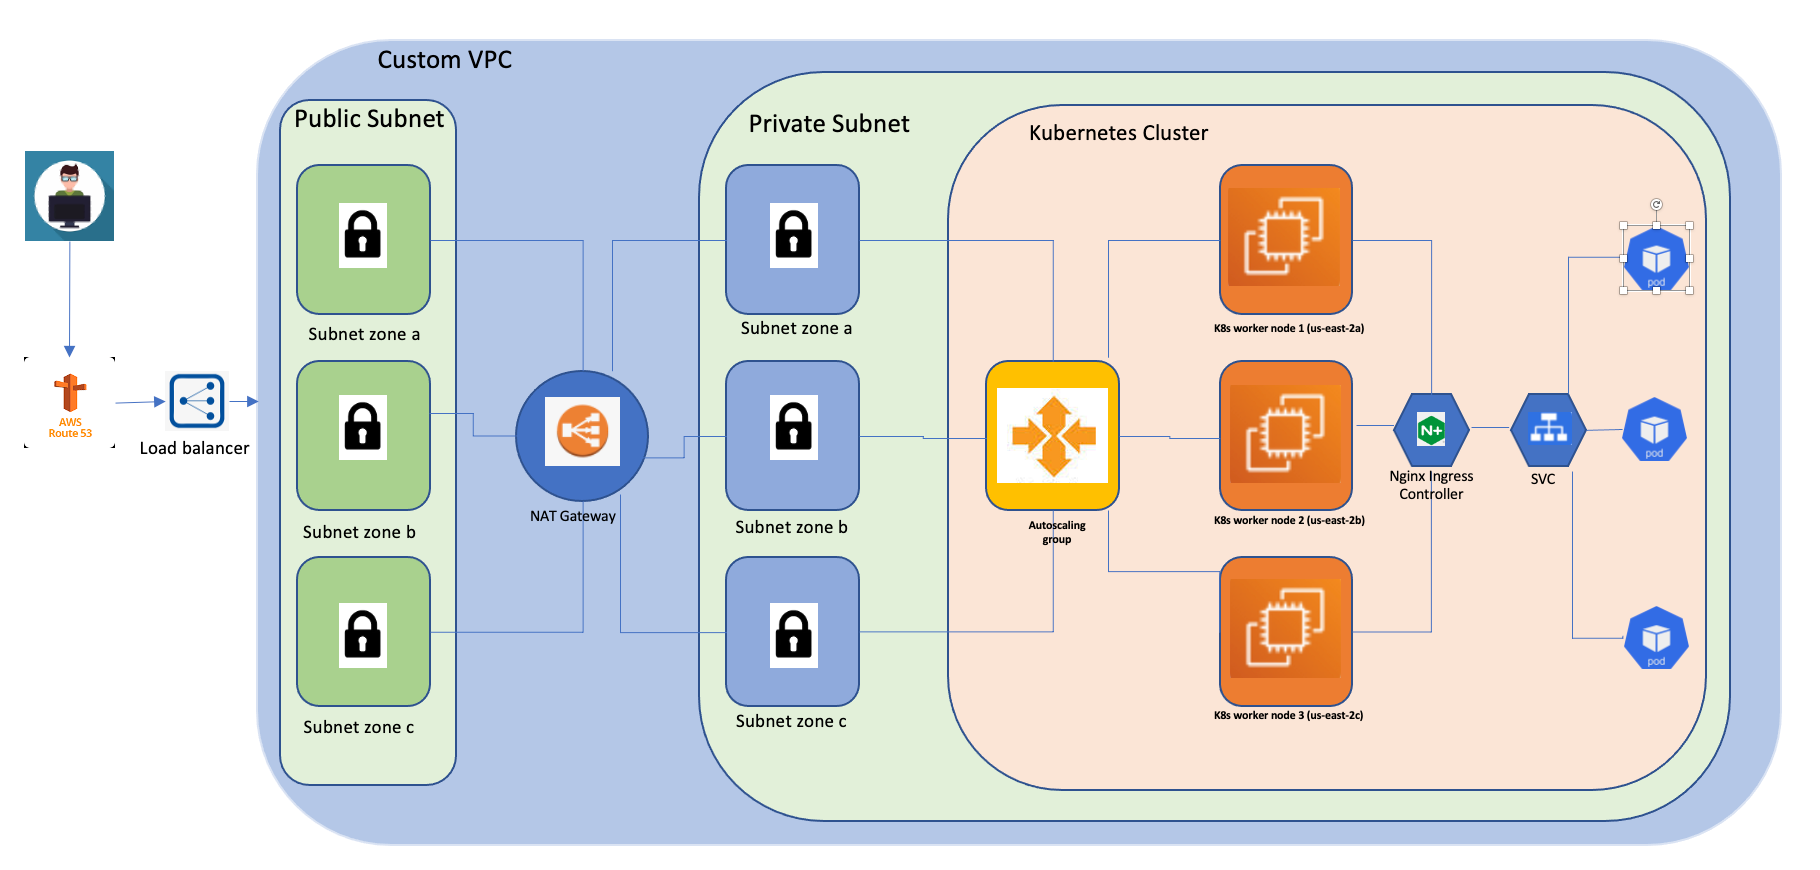
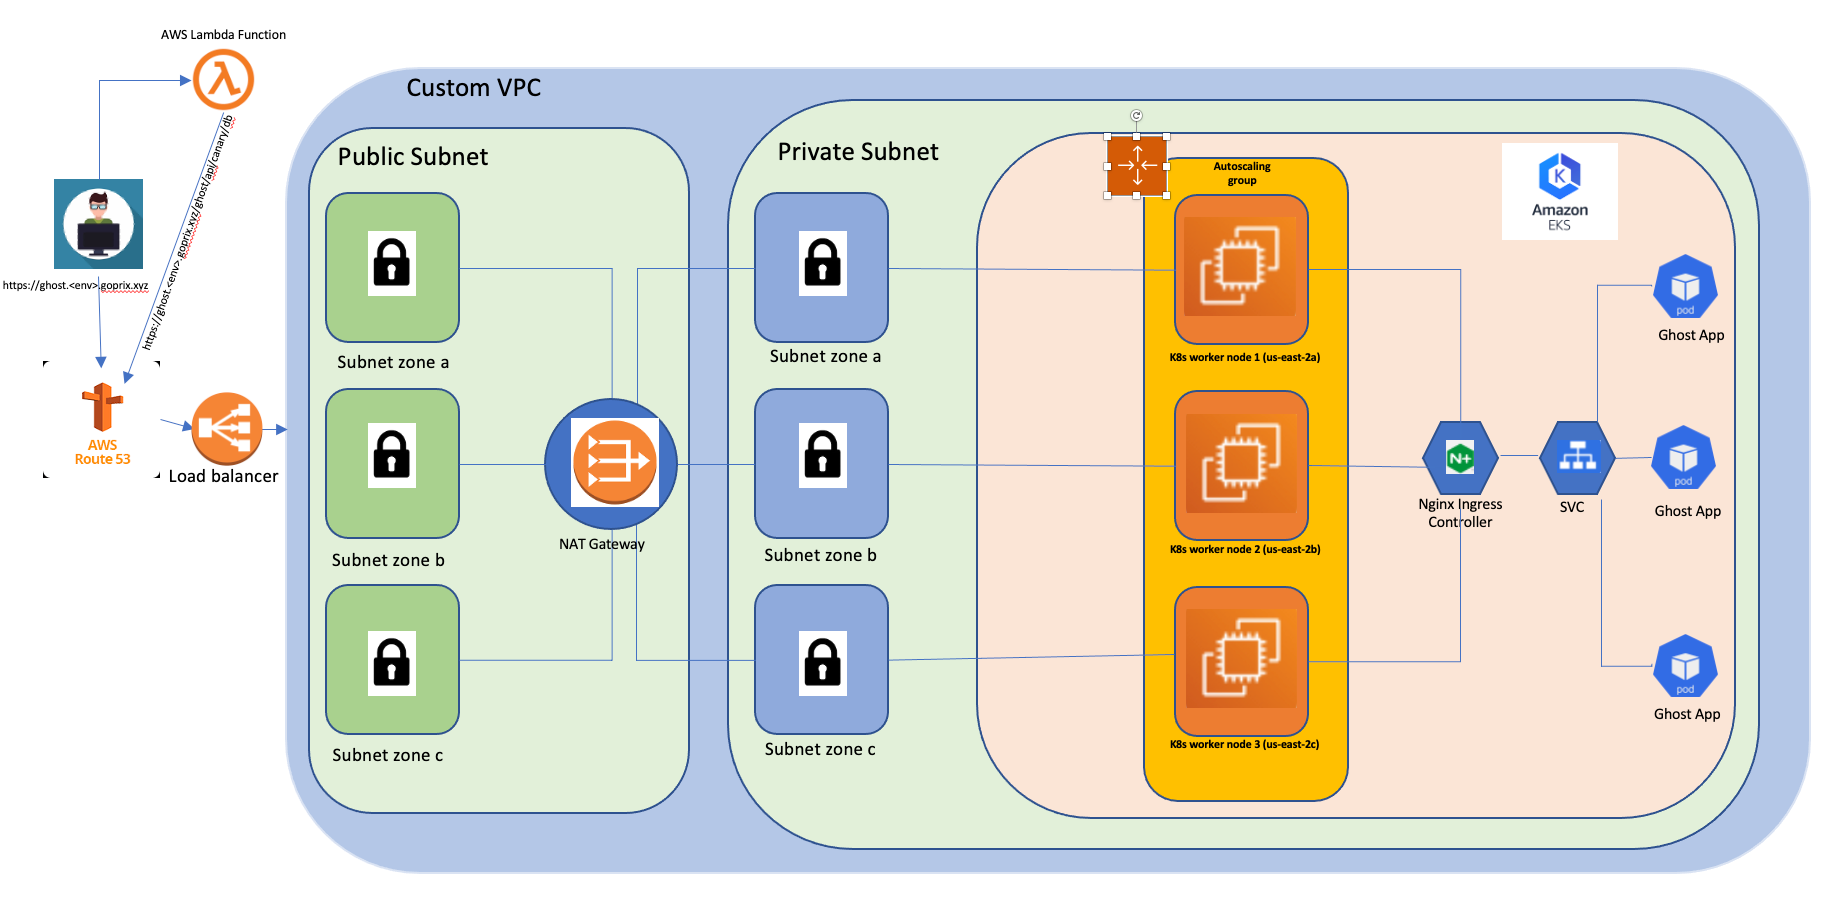
Update readme file

diff --git a/README.md b/README.md
@@ -1,22 +1,27 @@
 # Ghost-helm
 
-This is a proof of concept for the customer Drone Shuttles Ltd to launch their website using Ghost
-The repo will help you to deploy a website using Ghost into an AWS Managed Kubernetes cluster(EKS). 
+This is a proof of concept for the customer Drone Shuttles Ltd to launch their website using Ghost. 
+The repo will help you to deploy a website using Ghost into an AWS Managed Kubernetes cluster(EKS).
+In this repo we have:
+- gitlab-ci.yaml to deploy ghost application 
+- nginx ingress to expose ghost outside eks cluster
+- horizontal pod autoscaler kubernetes manifest file to scale ghost based on different traffic spikes
+
 There are other repos which will help in automating the deployment of the whole infrastructure used for the website
 - [eks-tf](https://gitlab.com/nord-cloud-ghost/eks-tf) - Terraform(IaC) code base to deploy EKS cluster 
 - [eks-addons](https://gitlab.com/nord-cloud-ghost/eks-addons) - Helm chart code base to deploy addons on EKS cluster for monitoring and visualising Ghost app and its environments
-- [ghost-infra](https://gitlab.com/nord-cloud-ghost/ghost-infra) - Terraform code base to deploy infra related to Ghost application
+- [ghost-infra](https://gitlab.com/nord-cloud-ghost/ghost-infra) - Terraform code base to deploy serverless function related to Ghost application
 
 ##Assumptions:
 
-- Customer is in AWS region: us-east-1
-- User/Dev has an AWS account
+- Customer is in AWS region: ```us-east-1```
+- User/Dev has an AWS account with programmatic access
 - User/Dev has prior knowledge of:
    - Terraform
    - AWS CLI
    - Using EKS cluster
 
-##Prerequisites:
+## Prerequisites:
 To Setup the entire project following tools are needed:
 
 - Terraform - v0.14.8
@@ -24,40 +29,53 @@ To Setup the entire project following tools are needed:
 - AWS CLI Configured with right credentials
 - S3 bucket to store terraform state file
 - A DynamoDB table to store the lock information for terraform  
+- Route53 Hosted zones   
 
-## Infrastructure
+## Architecture Overview
+
+Shows overview of ghost deployment in EKS cluster
 
 ![Architecture](images/architecture.png)
 
-To support development efforts three different environments (Dev, Staging, Prod) will be created in AWS and each environment mainly consists of the following:
+## Infrastructure
+
+To support development efforts three different environments (Dev, Staging, Prod) will be created in AWS and each environment mainly consists of the following stack:
 
 - VPC (with private and public subnet) - Networking
-- EKS cluster - Compute
+- EKS cluster - For hosting ghost application and its support services
 - Route53 records - DNS service
-- Lambda function - To support customer with serverless function to delete all posts
+- Lambda function - To support customer with serverless function to delete all posts in ghost
 - Gitlab - For storing code and CI/CD
 - S3 buckets - For storing terraform state files and creating backups for eks cluster
 - IAM - For user and access management
 - DynamoDB - For storing terraform state Lock information
-- Prometheus
-- Grafana
-- Loki
-- cloud trail
-- Velero
-- Atlantis
+- Prometheus - For scraping metrics
+- Grafana - For visualizing and monitoring
+- Loki - For log aggregation
+- Cloud trail - For audit logs
+- Velero - For Disaster recovery
+- Atlantis - For automating terraform workflow through gitlab 
+- Cert-manager - For Issuing certificated 
+- Nginx Ingress Controller - For routing traffic outside or within the cluster 
+- Autoscaling group - For deploying autoscaling for eks worker nodes in case of high traffic spikes 
 
 All the environments will be managed by three different accounts within AWS for separation of concerns.
 
-All EKS clusters will be integrated in the gitlab repos, so it can be used with CI/CD. Below are the cluster names for each environment:
+All EKS clusters will be integrated in the gitlab repos, so it can be used with CI/CD. Below are the cluster names that needs to be assigned for each environment:
 
 3. Dev     - ```dev-eks```
 1. Staging - ```staging-eks```
 2. Prod    - ```prod-eks```
 
 ## Deployment
+
+Shows overview of Deployment
+
+![Workloads](images/Deployment.png)
+
 ### Deploying Infrastructure
 
-1. Configure AWS cli with a IAM user which programmatic and admin access
+1. Configure AWS cli with a IAM user which has programmatic and admin access
 
 2. Website will be hosted in an EKS cluster, so go to repo: - [eks-tf](https://gitlab.com/nord-cloud-ghost/eks-tf) and follow instructions to
    deploy the following infrastructure using terraform:
@@ -65,22 +83,26 @@ All EKS clusters will be integrated in the gitlab repos, so it can be used with 
    - Security groups for creating firewalls for the EKS cluster
    - VPC
    - IAM Roles using OIDC provider to provide necessary access to Velero, Cert-manager and Atlantis
-   - Deloyment of Cert-manager on EKS cluster using helm chart
-   - Deloyment of Nginx Ingress controller on EKS cluster using helm chart
-   - Route53 CNAME record to route Outside traffic to Nginx Ingress controller
+   - Deployment of Cert-manager on EKS cluster using helm chart
+   - Deployment of Nginx Ingress controller on EKS cluster using helm chart
+   - Route53 CNAME records to route Outside traffic to Nginx Ingress controller
    - Deploy a service account and clusterrolebindings to provide admin access to gitlab
    
    Once the EKS cluster is successfully created use the below command to add kubeconfig to your context:
    ```shell
+   aws eks --region us-east-1 update-kubeconfig --name <env>-eks
+   ```
+   for example: 
+   ```shell
    aws eks --region us-east-1 update-kubeconfig --name staging-eks
    ```
-
    
 3. Integrate/Add EKS cluster to gitlab. 
 
    As the solution is spread across different repos within a group in gitlab, 
    we will add EKS cluster as a group level cluster following the instructions 
    from gitlab documentation [here](https://docs.gitlab.com/ee/user/project/clusters/add_existing_cluster.html#how-to-add-an-existing-cluster).
+   
    Following settings are recommended:
    - Fetch API URL using AWS Console
    - Fetch CA certificate again from AWS console and decode it before using it
@@ -96,19 +118,24 @@ All EKS clusters will be integrated in the gitlab repos, so it can be used with 
    - Let gitlab manage your eks cluster
    
 4. After integrating the cluster, use the repo [eks-addons](https://gitlab.com/nord-cloud-ghost/eks-addons), to deploy EKS addons which help to monitor the cluster and website hosted by ghost.
-   [eks-addons](https://gitlab.com/nord-cloud-ghost/eks-addons) repo has a gitlab pipeline which can be used to deploy the addons in each environment. Further instruction can be looked in the repo.
+   [Eks-addons](https://gitlab.com/nord-cloud-ghost/eks-addons) repo has a gitlab pipeline which can be used to deploy the addons in each environment. Further instruction can be looked in the repo.
    
 Following above steps should successfully help in deploying infrastructure for hosting website using Ghost
 
 
 ### Deploying Website
 
-Ghost is chosen for website creation, so a helm chart will be used to deploy ghost onto EKS cluster.
+Ghost is chosen for website creation as per customer requirements, so a helm chart will be used to deploy ghost onto EKS cluster.
 
 Installation is automated to different environments using gitlab-ci pipeline in this repo. A branch strategy is used to enable or disable a particular job, for example ```dev```
-related jobs can only be triggered in ```dev``` tagged branches, similarly, production related jobs can be enabled in ```production``` tagged branches
+related jobs can only be triggered in ```dev``` tagged branches, similarly, production related jobs can be enabled in ```production``` tagged branches, whereas staging related jobs can be triggered in both ```main/production``` tagged branches 
 
-There are six different jobs which can be used to install/uninstall Ghost on eks cluster. So trigger the pipeline to deploy ghost onto an environment
+There are six different jobs which can be used to install/uninstall Ghost on eks cluster. So trigger the pipeline in gitlab repo to deploy ghost onto an environment
+
+For Reference, click on the play button shown in the picture to deploy ghost on eks cluster:
+
+![Workloads](images/pipeline.png)
+
 
 #### List of Jobs
 
@@ -127,8 +154,13 @@ After successful installation of Ghost app on EKS cluster, following information
 
 1. Get the Ghost URL by running:
 
-   - Blog URL  : http://ghost.prod.goprix.xyz/
-   - Admin URL : http://ghost.prod.goprix.xyz/ghost
+   - Blog URL  : ```http://ghost.<env>.goprix.xyz/```
+   - Admin URL : ```http://ghost.<env>.goprix.xyz/ghost```
+   
+   For example to access Ghost on prod:
+
+   - Blog URL  : ```http://ghost.prod.goprix.xyz/```
+   - Admin URL : ```http://ghost.prod.goprix.xyz/ghost```
 
 2. Get your Ghost login credentials by using:
 
@@ -138,15 +170,19 @@ After successful installation of Ghost app on EKS cluster, following information
     $(kubectl get secret staging-ghost -o jsonpath="{.data.ghost-password}" | base64 --decode)
     ```
 
+Below shows overview of EKS workloads interaction with AWS Services once the whole solution is deployed
+
+![Workloads](images/workloads.png)
+
 ## Deploying Serverless function
 
-As per customer needs a serverless function is built using AWS lambda which is deployed using terraform in the repo: [ghost-infra](https://gitlab.com/nord-cloud-ghost/ghost-infra)
+As per customer needs, a serverless function is built using AWS lambda function and python which is deployed using terraform in the repo: [ghost-infra](https://gitlab.com/nord-cloud-ghost/ghost-infra)
 
 Currently, there is no way to trigger the function except for AWS Console.
 
-AWS Lambda function contains python code and it is uses [Ghost API](https://ghost.org/docs/admin-api/) functionality 
+AWS Lambda function contains python code and it is uses [Ghost API](https://ghost.org/docs/admin-api/) functionality to delete all posts on ghost application 
 
-Note: Password needs to be reset before running the lambda function
+#### Note: Password needs to be reset before running the lambda function
 
 ## Identity and Access Management
 
@@ -169,24 +205,27 @@ As security is considered to be one of the pillar in this whole architecture, fo
    ```
 2. An IAM assume role is created for all the EKS addons which interact with AWS services such as Velero, Cert-manager and Atlantis. As per the AWS [documentation](https://docs.aws.amazon.com/eks/latest/userguide/iam-roles-for-service-accounts.html), this is considered to be good design practice
 
-3. EKS Cluster created is private cluster
+3. EKS Cluster created is private cluster and is enabled with KMS encryption for secrets
 
 4. All the applications which are exposed to internet using a FQDN are SSL enabled. 
    Cert-manager adds certificates and certificate issuers as resource types in cluster, and simplifies the process of obtaining, renewing and using those certificates for the applications below:
-   - Ghost
-   - Grafana
-   - Atlantis
+   - Ghost - ```https://ghost.env.goprix.xyz/```
+   - Grafana - ```https://atlantis.env.goprix.xyz/```
+   - Atlantis - ```https://grafana.env.goprix.xyz/```
    
 ## Backup and Disaster Recovery for EKS
 
 Ghost will be deployed using AWS managed kubernetes cluster(EKS). 
 Should there be a disaster, and the whole kubernetes cluster goes unavailable, 
-then Velero deployed inside the EKS cluster will be used to recover all the workload upon recreating the EKS cluster.
+then Velero deployed inside the EKS cluster will be used to recover all the workloads upon recreating the EKS cluster.
 
 Velero is used to take snapshots of the cluster workloads and stores it in both S3 and EBS snapshots.
 
 Following steps can be followed for disaster recovery:
-Note: Make sure to have access to EKS cluster and Velero installed on your local
+### Prerequisites: 
+- Make sure to have access to EKS cluster and Velero installed on your local
+
+### Steps to recover from disaster:
 
 1. To create periodical snapshots of the cluster, a schedule job can be created using velero. 
 To achieve that, a simple EC2 instance which has access to EKS cluster and velero cli installed, then below command can be executed:
